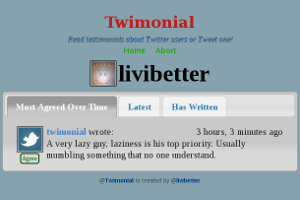
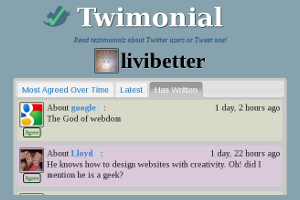
Revamped the design

diff --git a/src/css/main.css b/src/css/main.css
@@ -3,6 +3,10 @@ body {
   font-family: "Times New Roman", Serif;
   }
 
+h1, h2, h3 {
+  text-shadow: 1px 1px 0 #ccc;
+  }
+
 a {
   color: #048;
   font-weight: bold;
@@ -38,10 +42,13 @@ a img {
   }
 
 #header>.title a {
+  background-image: url('/img/logo.png');
+  background-repeat: no-repeat;
   color: #fff;
   font-family: Times;
   text-shadow: 1px 1px 1px #000;
   font-size: 56px;
+  padding: 5px 80px;
   }
 
 #header>.title a:hover {

diff --git a/src/tmpl/user.html b/src/tmpl/user.html
@@ -44,4 +44,5 @@
 <div class="notice">{{ user.screen_name }} has not written any Twimonial yet</div>
 {% endif %}
 </div>
+</div>
 {% endblock %}

diff --git a/src/twimonial/ui.py b/src/twimonial/ui.py
@@ -7,7 +7,7 @@ import config
 
 def render_write(tmpl_values, tmpl_name, request=None, response=None):
   # A helper function to set up some common stuff, render, then write to client
-  main_css_rev = '2009-12-14T10:55:57+0800'
+  main_css_rev = '2009-12-14T23:58:08+0800'
   main_js_rev = '2009-12-14T10:20:05+0800'
   if 'HEAD' not in tmpl_values:
     tmpl_values['HEAD'] = ''
